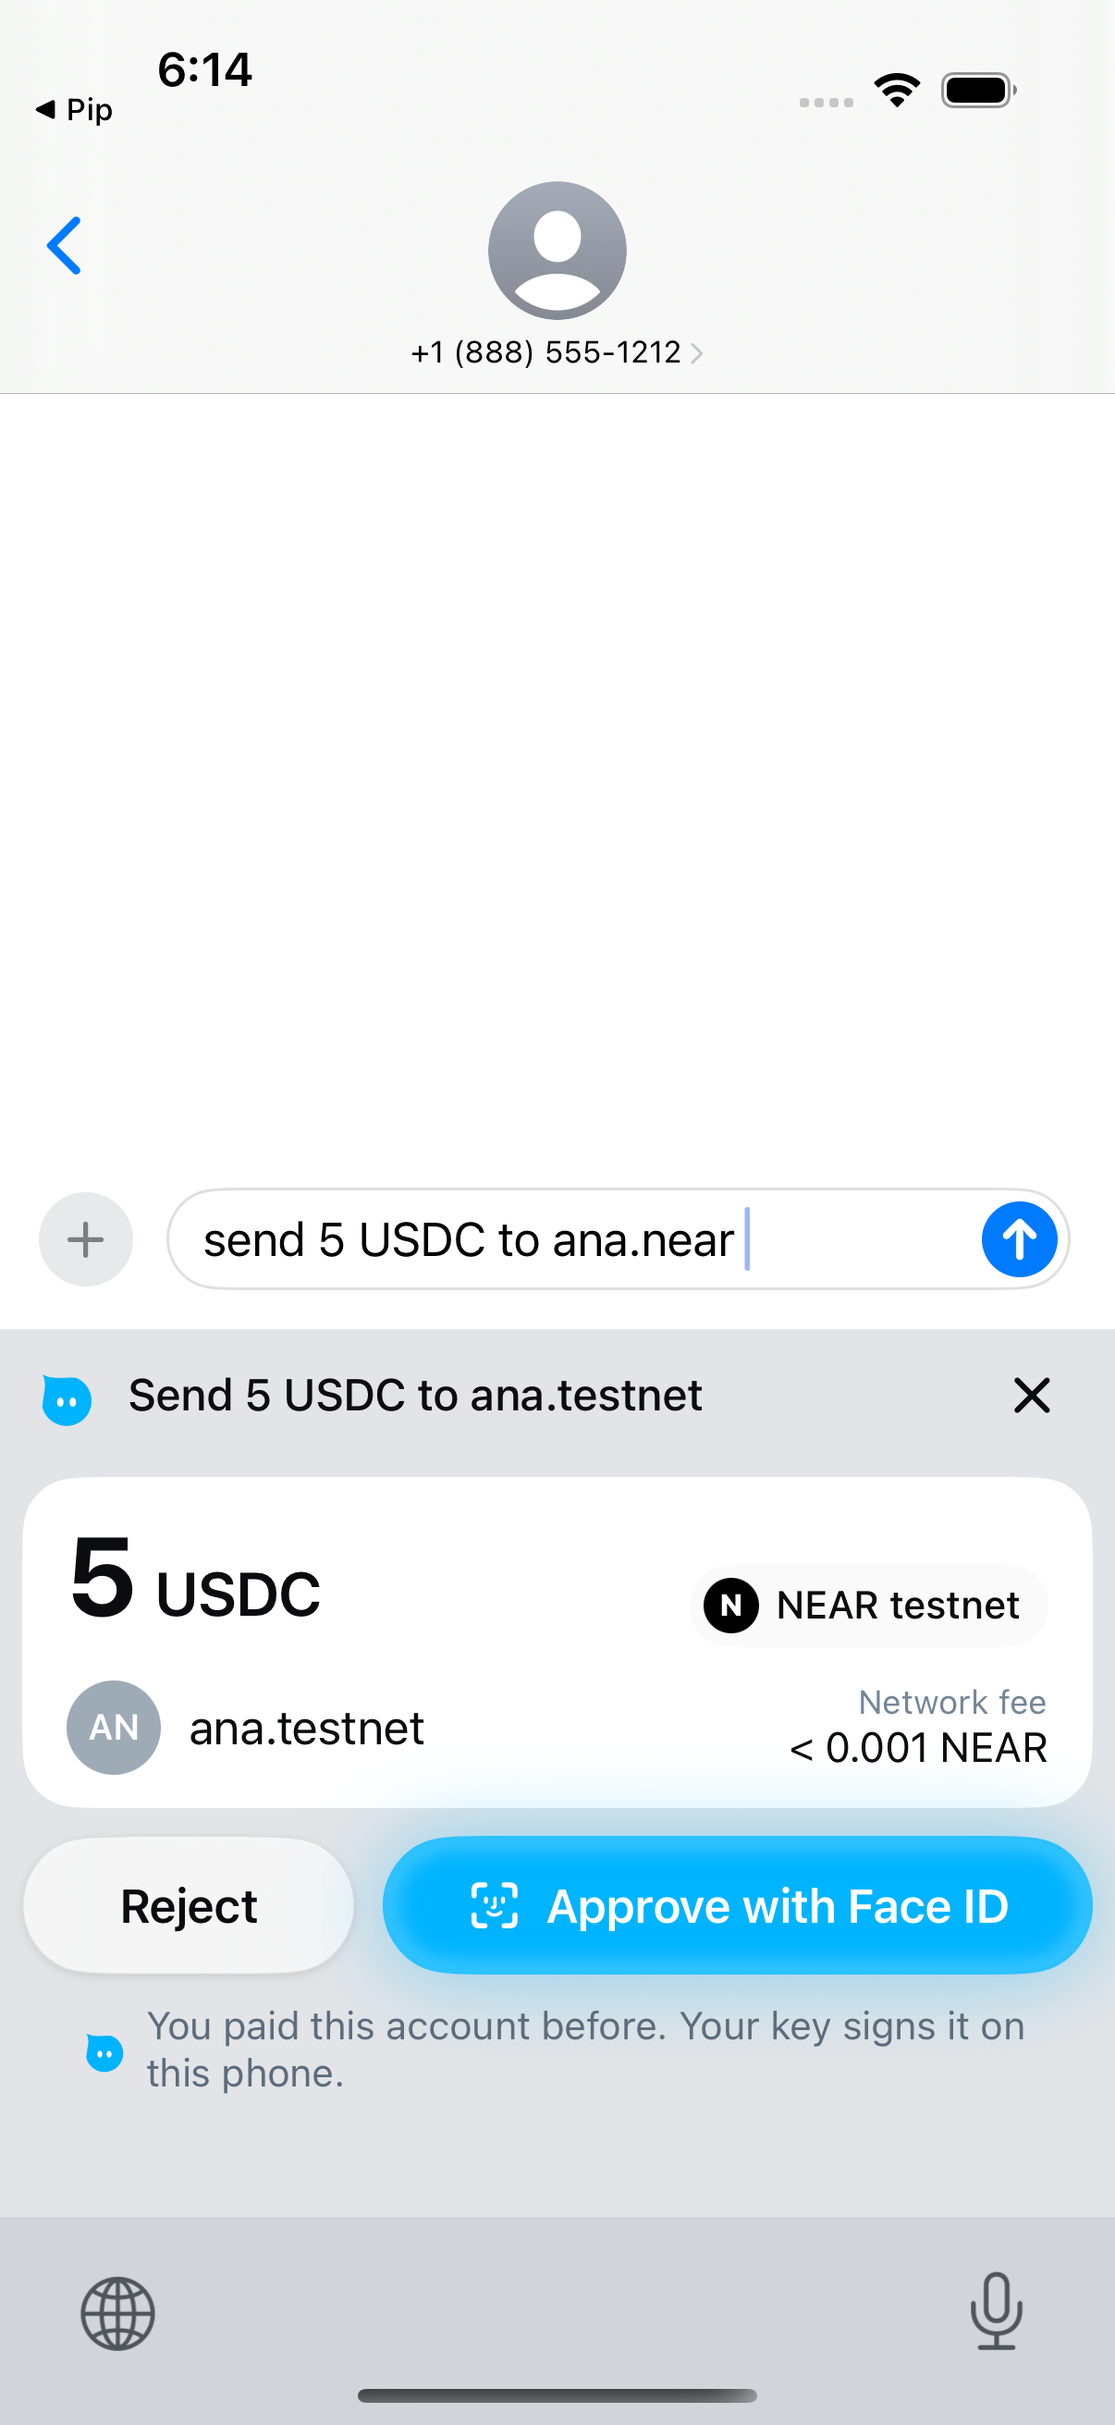
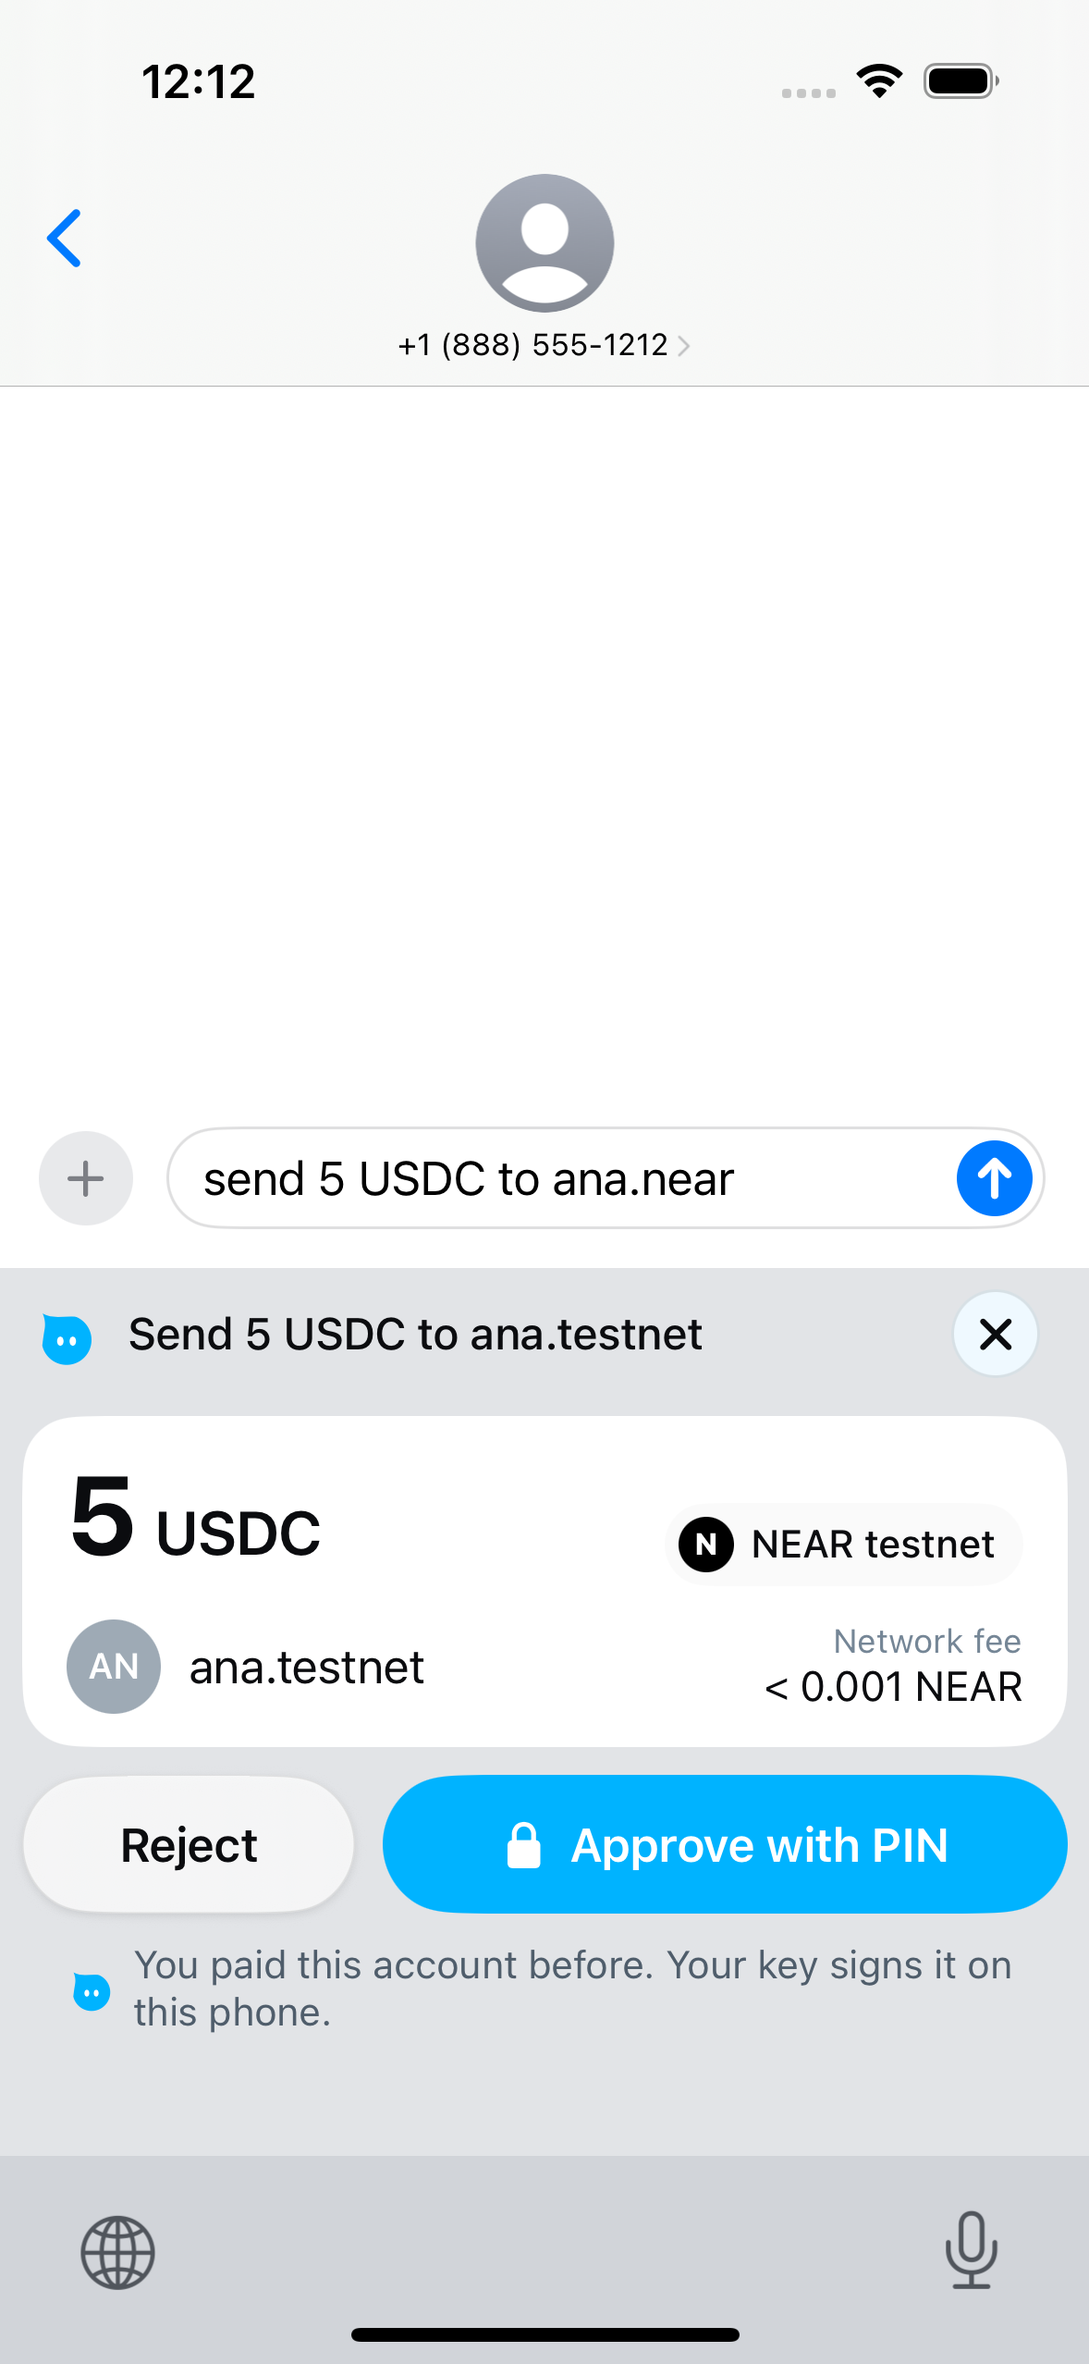
README: TestFlight link, MIT, PIN screenshots and swap preview
Claude-Session: https://claude.ai/code/session_01XP7ZkeQe2FTSggj9dRU5ps

diff --git a/ios/UITests/PayShots.swift b/ios/UITests/PayShots.swift
@@ -1,12 +1,12 @@
 import XCTest
 
 /// Pip Pay, phone-signed, on NEAR testnet against `npm run fake` (a fake chain; no network; the server checks the real signature). Run SmartChipShots/test1Setup first to pair
-/// and turn the keyboard on. Face ID: enroll the simulator and post a match while this runs (see docs in the report):
+/// and turn the keyboard on. Every keyboard payment is approved with the Pip PIN on the in-keyboard pad. Setting the PIN in the
+/// app asks Face ID once: enroll the simulator and post a match while this runs:
 /// `xcrun simctl spawn <sim> notifyutil -p com.apple.BiometricKit_Sim.pearl.match`. Writes to TEST_RUNNER_SHOT_DIR.
 final class PayShots: XCTestCase {
     private let env = ProcessInfo.processInfo.environment
     private let messages = XCUIApplication(bundleIdentifier: "com.apple.MobileSMS")
-    private let springboard = XCUIApplication(bundleIdentifier: "com.apple.springboard")
 
     override func setUp() { continueAfterFailure = false }
 
@@ -86,6 +86,8 @@ final class PayShots: XCTestCase {
         let setUp = element(app, "kbpay.turnOn")
         XCTAssertTrue(setUp.waitForExistence(timeout: 6))
         if setUp.label == "Set up Pip Pay" { setUp.tap() }
+        // Setup asks for the payment PIN next.
+        if element(app, "pinsetup.field").waitForExistence(timeout: 8) { setPIN(env["PAY_PIN"] ?? "482915", in: app) }
         XCTAssertTrue(label(app, "Pip Pay is on \u{2713}").waitForExistence(timeout: 15), String(app.debugDescription.suffix(3000)))
         XCTAssertTrue(element(app, "pay.balance").waitForExistence(timeout: 6), String(app.debugDescription.suffix(3000)))
         shot("near-setup")
@@ -99,31 +101,80 @@ final class PayShots: XCTestCase {
         XCTAssertTrue(element(app, "pay.mainnetWarning").waitForNonExistence(timeout: 8))
     }
 
-    /// First send to ana: a new recipient, so the keyboard hands it to the app (A-style card), then Face ID.
-    func test2FirstSendOpensTheApp() {
+    /// Turns on the payment PIN in the app when it is off (Face ID: post a match while this runs).
+    private func pinOn(_ pin: String) {
+        let app = XCUIApplication()
+        app.launch()
+        let field = element(app, "pinsetup.field")
+        let state = element(app, "pay.pinState")
+        // The app can reopen on the Pip Pay page it was left on.
+        if !(state.waitForExistence(timeout: 2) || field.exists) {
+            let row = element(app, "home.keyboardPay")
+            for _ in 0..<6 where !(row.exists && row.isHittable) { app.swipeUp(velocity: .slow) }
+            XCTAssertTrue(row.waitForExistence(timeout: 10), String(app.debugDescription.suffix(3000)))
+            row.tap()
+        }
+        if !field.waitForExistence(timeout: 3) {
+            XCTAssertTrue(state.waitForExistence(timeout: 10), String(app.debugDescription.suffix(3000)))
+            if state.label == "On" { return }
+            element(app, "pay.pinAction").tap()
+        }
+        setPIN(pin, in: app)
+        XCTAssertTrue(state.waitForExistence(timeout: 20), String(app.debugDescription.suffix(3000)))
+        expectation(for: NSPredicate(format: "label == 'On'"), evaluatedWith: state)
+        waitForExpectations(timeout: 20)
+    }
+
+    /// Types the PIN twice on the app's Payment PIN sheet.
+    private func setPIN(_ pin: String, in app: XCUIApplication) {
+        let field = element(app, "pinsetup.field")
+        XCTAssertTrue(field.waitForExistence(timeout: 6), String(app.debugDescription.suffix(3000)))
+        field.typeText(pin)
+        Thread.sleep(forTimeInterval: 0.5)
+        field.typeText(pin)
+        // The first Face ID use asks for permission.
+        let allow = XCUIApplication(bundleIdentifier: "com.apple.springboard").alerts.buttons["Allow"]
+        if allow.waitForExistence(timeout: 4) { allow.tap() }
+        XCTAssertTrue(field.waitForNonExistence(timeout: 20), String(app.debugDescription.suffix(3000)))
+    }
+
+    /// Waits for the in-keyboard pad and types the PIN on it.
+    private func typePIN(_ pin: String) {
+        XCTAssertTrue(element(messages, "pin.pad").waitForExistence(timeout: 5), String(messages.debugDescription.suffix(4000)))
+        for d in pin { element(messages, "pin.\(d)").tap() }
+    }
+
+    /// First send to ana, a new recipient: the card stays in the keyboard and asks how the address ends, then the PIN.
+    func test2FirstSendChecksTheAddress() {
+        let pin = env["PAY_PIN"] ?? "482915"
+        pinOn(pin)
         let field = openField()
-        enter(env["PAY_TEXT"] ?? "send 5 USDC to \(env["PAY_TO"] ?? "ana").near", in: field)
+        let to = env["PAY_TO_FULL"] ?? "ana.testnet"
+        enter(env["PAY_TEXT"] ?? "send 5 USDC to ana.near", in: field)
         let chip = element(messages, "chip.pay")
+        if !chip.waitForExistence(timeout: 6) {
+            Thread.sleep(forTimeInterval: 5.5)
+            element(messages, "delete").tap()
+            element(messages, "space").tap()
+        }
         XCTAssertTrue(chip.waitForExistence(timeout: 6), String(messages.debugDescription.suffix(3000)))
         shot("near-chip")
         chip.tap()
-        let open = springboard.buttons["Open"]
-        if open.waitForExistence(timeout: 4) { open.tap() }
-        let app = XCUIApplication()
-        if !element(app, "pay.approve").waitForExistence(timeout: 8) {
-            // The keyboard could not open the app: open it by hand, as the bar says.
-            app.activate()
-        }
-        XCTAssertTrue(element(app, "pay.approve").waitForExistence(timeout: 10), String(app.debugDescription.suffix(3000)))
-        Thread.sleep(forTimeInterval: 1.5)
-        shot("near-approve-app")
-        element(app, "pay.approve").tap()
-        XCTAssertTrue(element(app, "pay.sent").waitForExistence(timeout: 20), String(app.debugDescription.suffix(3000)))
-        shot("near-sent-app")
-        element(app, "pay.done").tap()
+        XCTAssertTrue(element(messages, "paycard.firsttime").waitForExistence(timeout: 10), String(messages.debugDescription.suffix(4000)))
+        XCTAssertTrue(element(messages, "paycard.approve").label.contains("Approve with PIN"), String(messages.debugDescription.suffix(4000)))
+        shot("near-first-time")
+        let ends = messages.descendants(matching: .any).matching(NSPredicate(format: "identifier BEGINSWITH 'paycard.end.'"))
+        let name = [".testnet", ".near"].first { to.hasSuffix($0) }.map { String(to.dropLast($0.count)) } ?? to
+        let right = (0..<ends.count).map { ends.element(boundBy: $0) }.first { name.hasSuffix(String($0.identifier.dropFirst("paycard.end.".count))) }
+        XCTAssertNotNil(right)
+        right?.tap()
+        element(messages, "paycard.approve").tap()
+        typePIN(pin)
+        XCTAssertTrue(element(messages, "paycard.insert").waitForExistence(timeout: 25), String(messages.debugDescription.suffix(4000)))
+        element(messages, "paycard.insert").tap()
     }
 
-    /// Second send to ana: paid before and within the limit, so the card and Face ID stay in the keyboard (C-1, C-2).
+    /// Second send to ana: paid before and within the limit, so the card shows with no address check; the PIN pad signs.
     func test3SecondSendStaysInTheKeyboard() {
         let field = openField()
         // The app's send from test 2 waits on the bar as a receipt line with Insert (A-3).
@@ -145,8 +196,10 @@ final class PayShots: XCTestCase {
         chip.tap()
         let approve = element(messages, "paycard.approve")
         XCTAssertTrue(approve.waitForExistence(timeout: 8), String(messages.debugDescription.suffix(3000)))
+        XCTAssertTrue(element(messages, "paycard.approve").label.contains("Approve with PIN"), String(messages.debugDescription.suffix(4000)))
         shot("near-approve")
         approve.tap()
+        typePIN(env["PAY_PIN"] ?? "482915")
         let insert = element(messages, "paycard.insert")
         XCTAssertTrue(insert.waitForExistence(timeout: 20), String(messages.debugDescription.suffix(4000)))
         shot("near-sent")
@@ -156,29 +209,10 @@ final class PayShots: XCTestCase {
     }
 
     /// Boss man's P0: in Messages, "Approve with PIN" opens Pip's number pad inside the keyboard, the PIN signs, and the
-    /// payment is sent without the app. Sets the PIN in the app first when it is not on (Face ID: post a match while this runs).
+    /// payment is sent without the app. Sets the PIN in the app first when it is not on.
     func test5ApproveWithPINInTheKeyboard() {
         let pin = env["PAY_PIN"] ?? "482915"
-        let app = XCUIApplication()
-        app.launch()
-        let row = element(app, "home.keyboardPay")
-        for _ in 0..<6 where !(row.exists && row.isHittable) { app.swipeUp(velocity: .slow) }
-        XCTAssertTrue(row.waitForExistence(timeout: 10), String(app.debugDescription.suffix(3000)))
-        row.tap()
-        let state = element(app, "pay.pinState")
-        XCTAssertTrue(state.waitForExistence(timeout: 10), String(app.debugDescription.suffix(3000)))
-        if state.label != "On" {
-            let field = element(app, "pinsetup.field")
-            if !field.waitForExistence(timeout: 3) { element(app, "pay.pinAction").tap() }
-            XCTAssertTrue(field.waitForExistence(timeout: 6), String(app.debugDescription.suffix(3000)))
-            field.typeText(pin)
-            Thread.sleep(forTimeInterval: 0.5)
-            field.typeText(pin)
-            XCTAssertTrue(state.waitForExistence(timeout: 20))
-            let on = NSPredicate(format: "label == 'On'")
-            expectation(for: on, evaluatedWith: state)
-            waitForExpectations(timeout: 20)
-        }
+        pinOn(pin)
         let field = openField()
         enter(env["PAY_TEXT"] ?? "send 5 USDC to ana.near", in: field)
         let chip = element(messages, "chip.pay")

diff --git a/ios/UITests/XchainShots.swift b/ios/UITests/XchainShots.swift
@@ -1,12 +1,13 @@
 import XCTest
 
 /// Cross-chain pay in the keyboard against `npm run fake` (a fake 1Click and NEAR; no network). Run SmartChipShots/test1Setup
-/// first to pair and turn the keyboard on. FAKE_URL names the fake server; shots go to SHOT_DIR. The simulator Keychain does
-/// not enforce Face ID, so no match has to be posted.
+/// first to pair and turn the keyboard on, and PayShots/test2 to set the Pip PIN (PAY_PIN). Every approve goes through the
+/// in-keyboard PIN pad. FAKE_URL names the fake server; shots go to SHOT_DIR.
 final class XchainShots: XCTestCase {
     private let env = ProcessInfo.processInfo.environment
     private let messages = XCUIApplication(bundleIdentifier: "com.apple.MobileSMS")
     private let text = "send 5 USDC to 0xd8da6bf26964af9d7eed9e10c19b4ae4ff1b9da3 on base"
+    private var pin: String { env["PAY_PIN"] ?? "482915" }
 
     override func setUp() { continueAfterFailure = false }
 
@@ -24,16 +25,26 @@ final class XchainShots: XCTestCase {
         app.descendants(matching: .any).matching(NSPredicate(format: "label == %@", l)).firstMatch
     }
 
-    /// Moves the fake server's clock, so the next approve re-quotes.
-    private func tick(_ ms: Int) {
-        var r = URLRequest(url: URL(string: (env["FAKE_URL"] ?? "http://127.0.0.1:8799") + "/_tick")!)
+    private func post(_ path: String, _ json: String) {
+        var r = URLRequest(url: URL(string: (env["FAKE_URL"] ?? "http://127.0.0.1:8799") + path)!)
         r.httpMethod = "POST"
         r.setValue("application/json", forHTTPHeaderField: "Content-Type")
-        r.httpBody = Data(#"{"ms":\#(ms)}"#.utf8)
-        let done = expectation(description: "tick")
+        r.httpBody = Data(json.utf8)
+        let done = expectation(description: path)
         URLSession.shared.dataTask(with: r) { _, _, _ in done.fulfill() }.resume()
         wait(for: [done], timeout: 5)
     }
+
+    /// Taps Approve with PIN and types the PIN on the in-keyboard pad.
+    private func approveWithPIN() {
+        XCTAssertTrue(element(messages, "paycard.approve").label.contains("Approve with PIN"), String(messages.debugDescription.suffix(4000)))
+        element(messages, "paycard.approve").tap()
+        XCTAssertTrue(element(messages, "pin.pad").waitForExistence(timeout: 8), String(messages.debugDescription.suffix(4000)))
+        for d in pin { element(messages, "pin.\(d)").tap() }
+    }
+
+    /// Moves the fake server's clock, so the next approve re-quotes.
+    private func tick(_ ms: Int) { post("/_tick", #"{"ms":\#(ms)}"#) }
 
     private func paste(_ s: String, into field: XCUIElement) {
         UIPasteboard.general.string = s
@@ -75,12 +86,12 @@ final class XchainShots: XCTestCase {
     }
 
     /// Pastes the ask and waits for `chipID`; a paste reads as typing past a chip, so it nudges once after the quiet time.
-    private func ask(_ chipID: String, in field: XCUIElement) -> XCUIElement {
+    private func ask(_ chipID: String, in field: XCUIElement, text: String? = nil) -> XCUIElement {
         let delete = element(messages, "delete")
         for _ in 0..<6 where !((field.value as? String) ?? "").isEmpty && (field.value as? String) != field.placeholderValue {
             delete.press(forDuration: 2.5)
         }
-        paste(text, into: field)
+        paste(text ?? self.text, into: field)
         element(messages, "space").tap()
         let chip = element(messages, chipID)
         if !chip.waitForExistence(timeout: 6) {
@@ -95,11 +106,14 @@ final class XchainShots: XCTestCase {
     private func pipPay(network: String) {
         let app = XCUIApplication()
         app.launch()
-        let row = element(app, "home.keyboardPay")
-        for _ in 0..<6 where !(row.exists && row.isHittable) { app.swipeUp(velocity: .slow) }
-        XCTAssertTrue(row.waitForExistence(timeout: 10), String(app.debugDescription.suffix(3000)))
-        row.tap()
         let setUp = element(app, "kbpay.turnOn")
+        // The app can reopen on the Pip Pay page it was left on.
+        if !setUp.waitForExistence(timeout: 2) {
+            let row = element(app, "home.keyboardPay")
+            for _ in 0..<6 where !(row.exists && row.isHittable) { app.swipeUp(velocity: .slow) }
+            XCTAssertTrue(row.waitForExistence(timeout: 10), String(app.debugDescription.suffix(3000)))
+            row.tap()
+        }
         XCTAssertTrue(setUp.waitForExistence(timeout: 6))
         if setUp.label == "Set up Pip Pay" { setUp.tap() }
         XCTAssertTrue(element(app, "pay.balance").waitForExistence(timeout: 15), String(app.debugDescription.suffix(3000)))
@@ -130,10 +144,10 @@ final class XchainShots: XCTestCase {
         element(messages, "paycard.end.9da3").tap()
         // Over a minute later: the server re-quotes before it builds.
         tick(61_000)
-        element(messages, "paycard.approve").tap()
+        approveWithPIN()
         XCTAssertTrue(element(messages, "xcard.requoted").waitForExistence(timeout: 15), String(messages.debugDescription.suffix(4000)))
         shot("xchain-requote")
-        element(messages, "paycard.approve").tap()
+        approveWithPIN()
         XCTAssertTrue(element(messages, "xcard.status").waitForExistence(timeout: 15), String(messages.debugDescription.suffix(4000)))
         XCTAssertTrue(element(messages, "xcard.explorer").waitForExistence(timeout: 20), String(messages.debugDescription.suffix(4000)))
         shot("xchain-status")
@@ -147,7 +161,20 @@ final class XchainShots: XCTestCase {
         chip.tap()
         XCTAssertTrue(element(messages, "paycard.approve").waitForExistence(timeout: 10), String(messages.debugDescription.suffix(4000)))
         XCTAssertFalse(element(messages, "paycard.firsttime").exists)
+        XCTAssertTrue(element(messages, "paycard.approve").label.contains("Approve with PIN"), String(messages.debugDescription.suffix(4000)))
         shot("xchain-card")
+        element(messages, "paycard.reject").tap()
+    }
+
+    /// Testnet: "swap 1 near to usdc" shows a live preview card (real prices, Approve off).
+    func test4SwapPreview() {
+        pipPay(network: "Testnet")
+        post("/_next", #"{"route":{"label":"swap","confidence":0.9}}"#)
+        let field = openField()
+        let chip = ask("chip.pay", in: field, text: "swap 1 near to usdc")
+        chip.tap()
+        XCTAssertTrue(element(messages, "swapcard.preview").waitForExistence(timeout: 10), String(messages.debugDescription.suffix(4000)))
+        shot("swap-preview")
         element(messages, "paycard.reject").tap()
     }
 }

diff --git a/README.md b/README.md
@@ -8,7 +8,9 @@ Built for NEAR HACKATHON. The repo started on 2026-11-12, inside the hackathon w
 
 ## Try it
 
-**TestFlight: TESTFLIGHT_LINK_HERE**
+**TestFlight: https://testflight.apple.com/join/N35PJPEx**
+
+Public beta: Apple is reviewing it. If the link says the beta isn't accepting testers yet, check back soon.
 
 1. Install **TestFlight** from the App Store.
 2. Open the link above on your iPhone.
@@ -32,9 +34,10 @@ Things to type:
 | | | |
 | --- | --- | --- |
 | <img src="docs/shots/calendar-light-new-event-clash.png" width="220"><br>Calendar in the keyboard: clash check and free times | <img src="docs/shots/fix-draw-panel-iphone16.png" width="220"><br>Explain + Draw it: a step-by-step drawing | <img src="docs/shots/near-proof.png" width="220"><br>Private AI proof screen |
-| <img src="docs/shots/pin-pad-keyboard.png" width="220"><br>Approve a NEAR payment with your PIN, inside the keyboard | <img src="docs/shots/xchain-card.png" width="220"><br>Pay USDC on Base through NEAR Intents | |
+| <img src="docs/shots/near-approve.png" width="220"><br>Send on NEAR: the card, approved with your PIN | <img src="docs/shots/pin-pad-keyboard.png" width="220"><br>The PIN pad, inside the keyboard | <img src="docs/shots/first-time-full-address.png" width="220"><br>New address: check the whole address and tap its ending |
+| <img src="docs/shots/xchain-card.png" width="220"><br>Pay USDC on Base through NEAR Intents | <img src="docs/shots/swap-preview.png" width="220"><br>"swap 1 near to usdc": a NEAR Intents swap preview | |
 
-The shots come from the iOS simulator against the fake server (`npm run fake`). So the proof screen shows fake values. The cross-chain card is an older shot with a Face ID button. Current builds approve with the PIN.
+The shots come from the iOS simulator against the fake server (`npm run fake`). So the proof screen and the prices show fake values.
 
 ## NEAR integrations
 
@@ -154,4 +157,4 @@ More: [server/SECURITY.md](server/SECURITY.md), [docs/DATA.md](docs/DATA.md), [d
 
 ## Licence
 
-Licence: to be decided by the author.
+Licence: MIT (see LICENSE)
